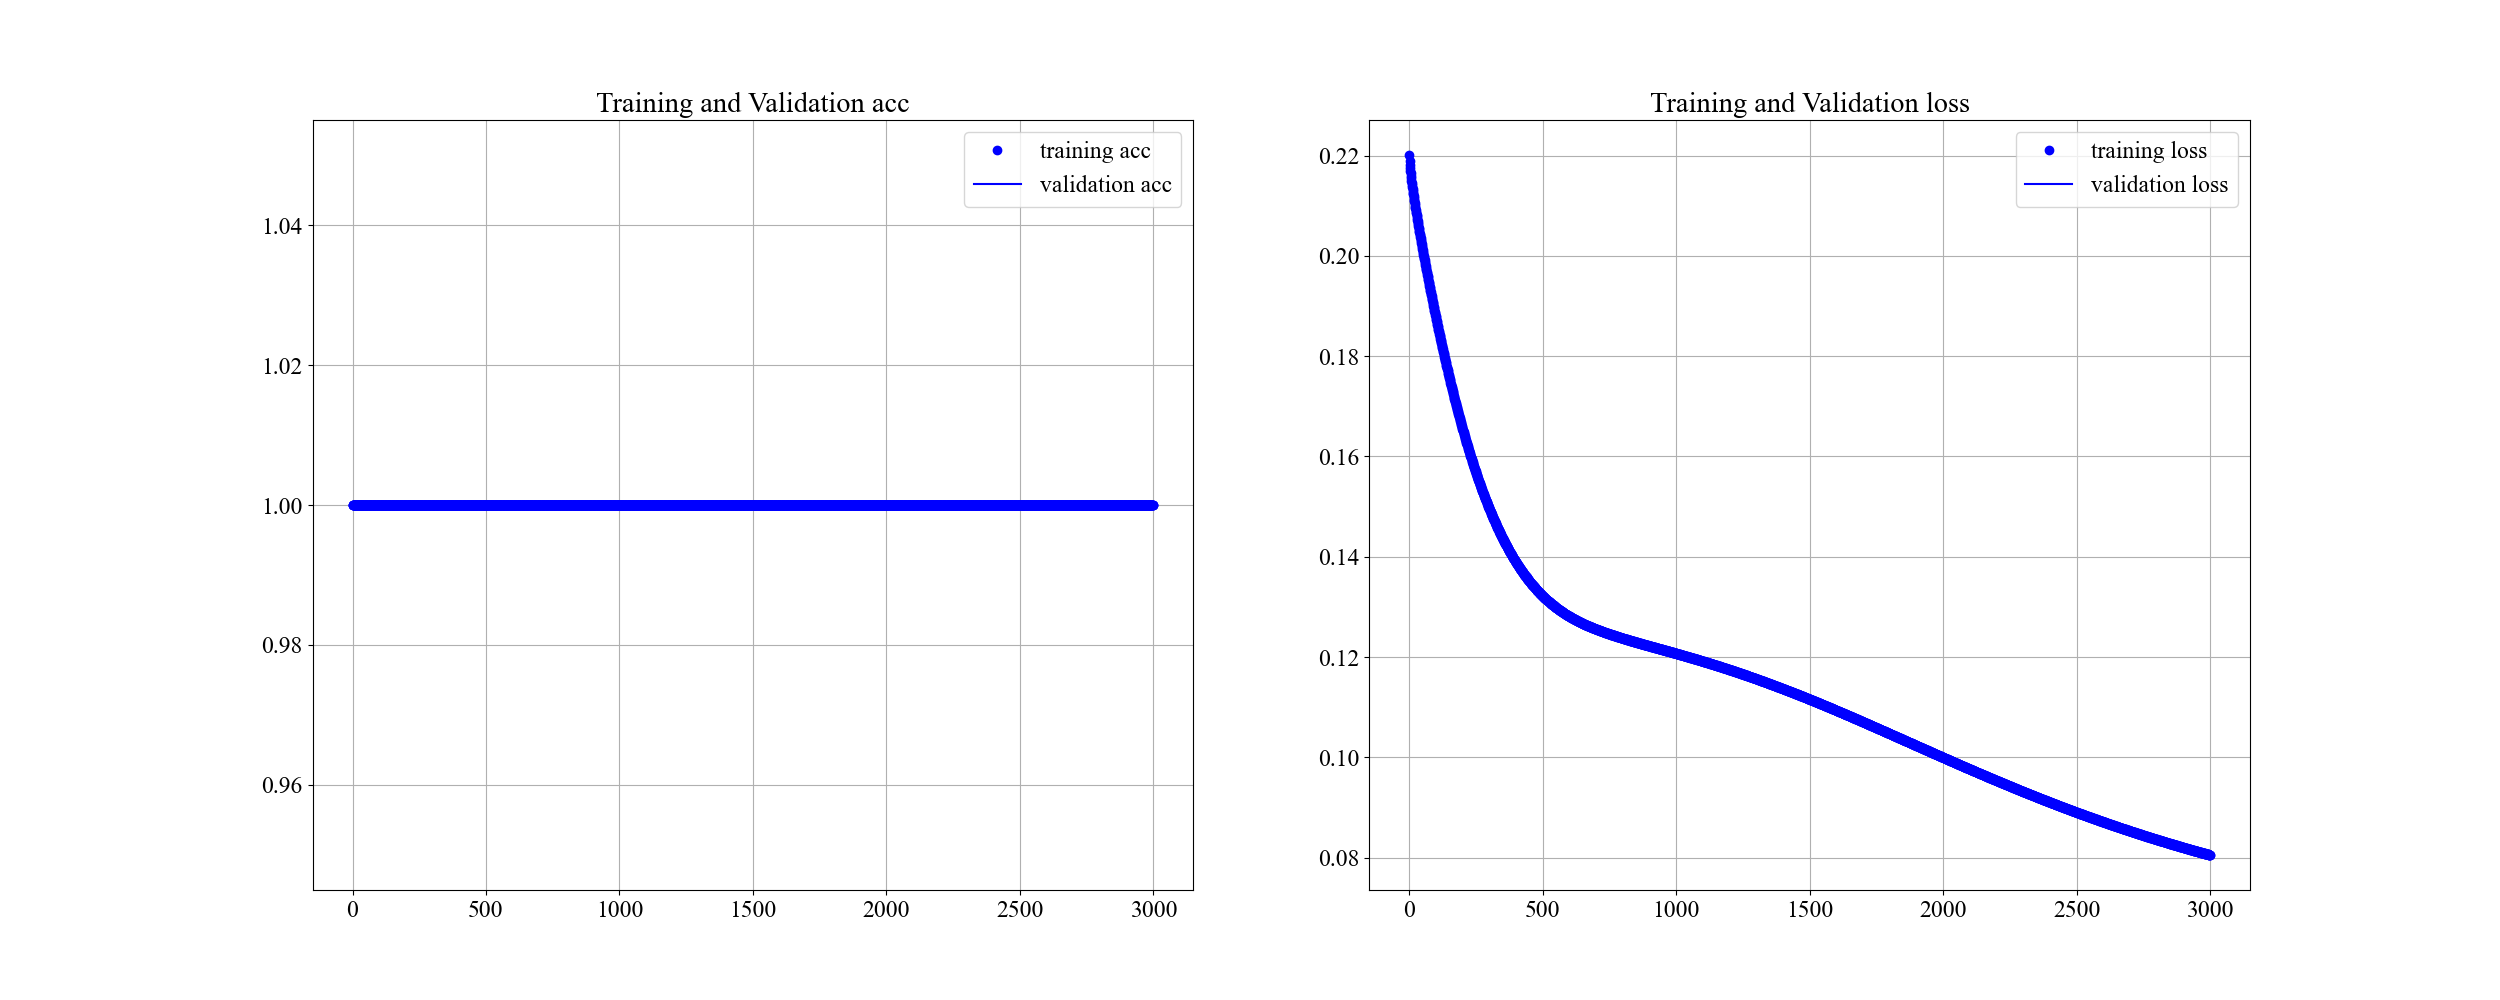
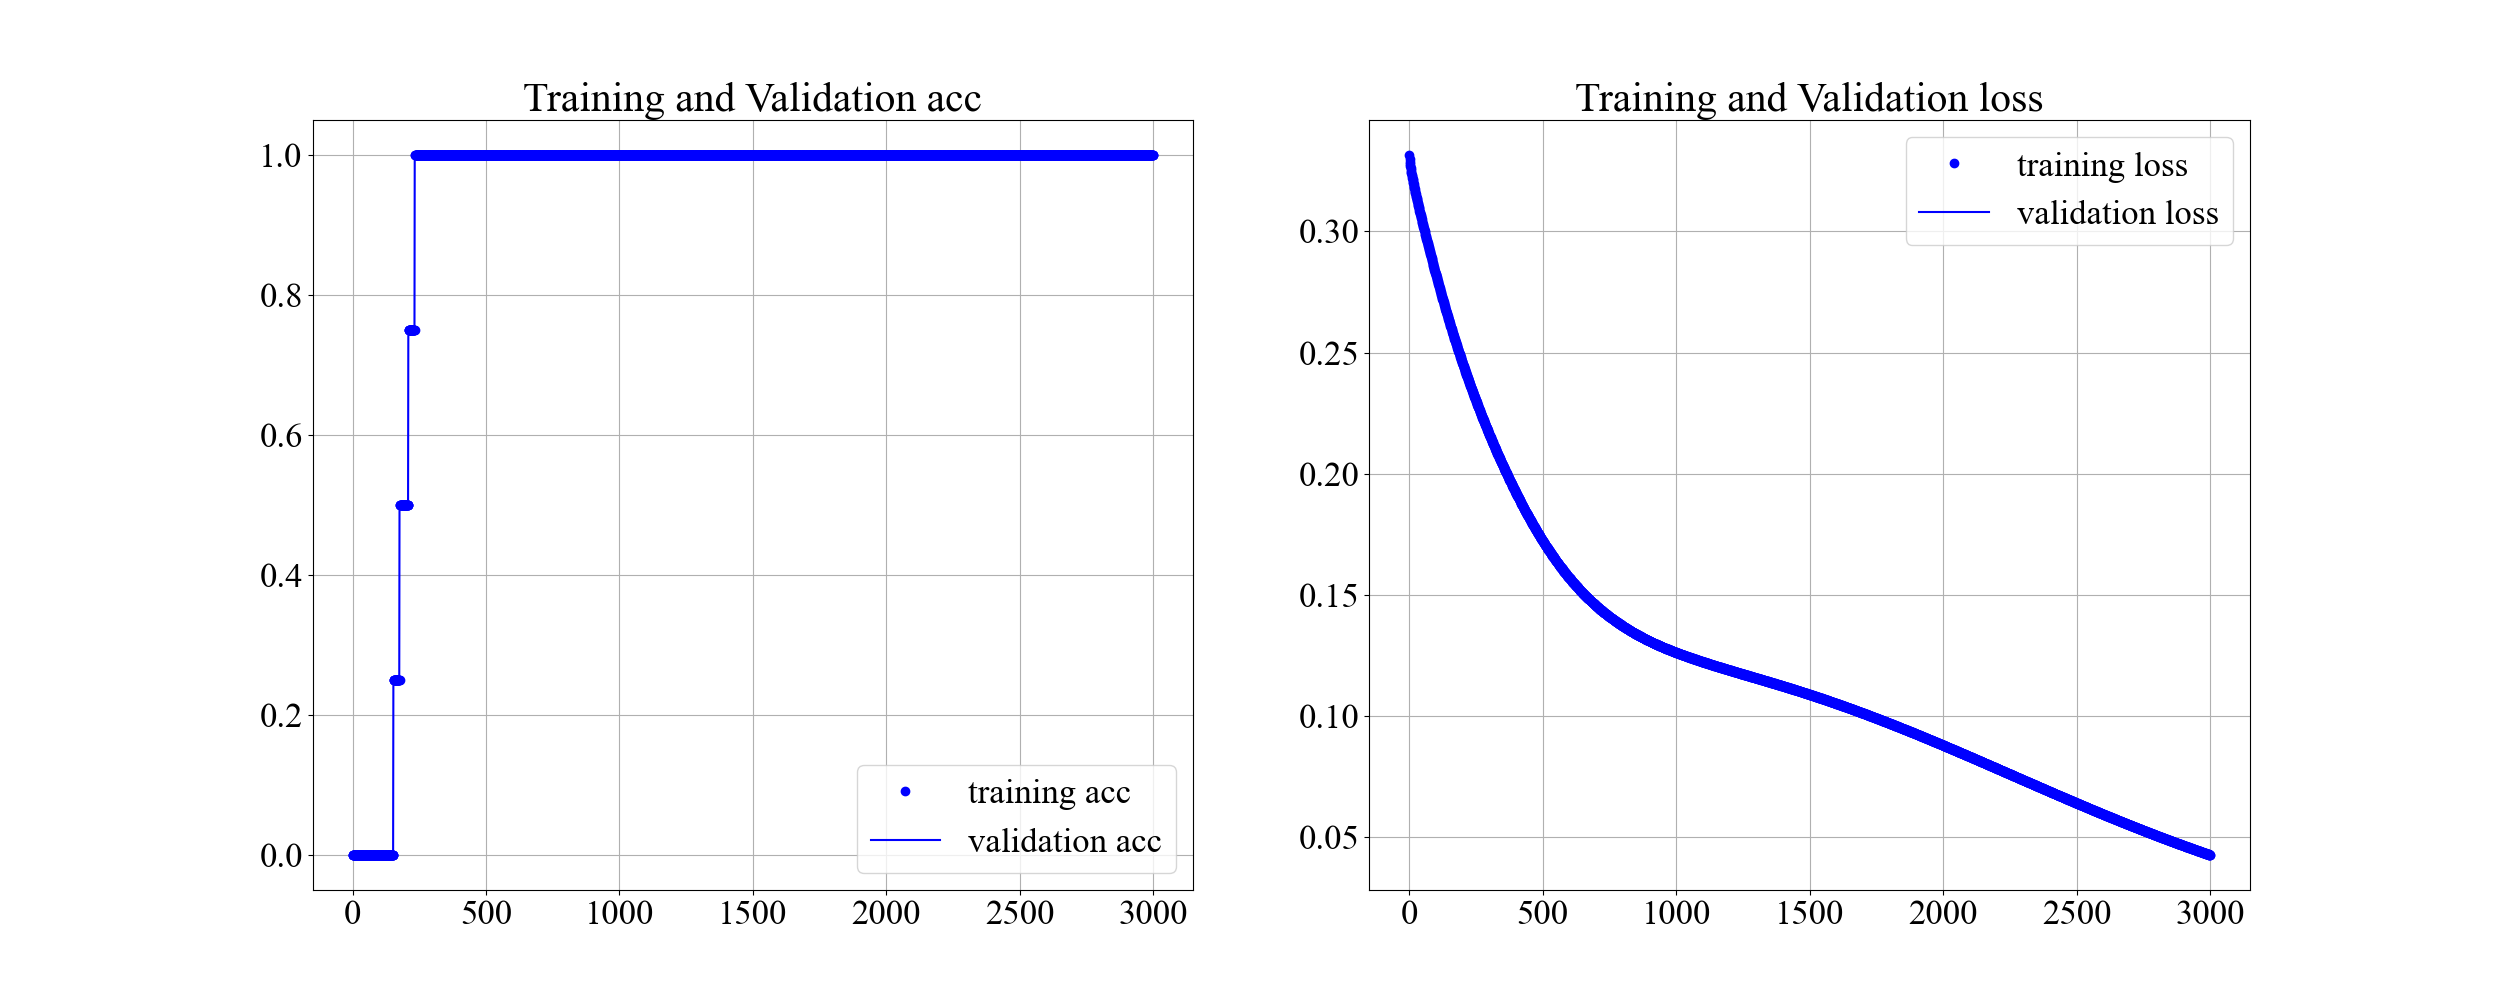
update

diff --git a/python/keras/01_test/ex4.py b/python/keras/01_test/ex4.py
@@ -6,7 +6,7 @@ from keras.optimizers import RMSprop
 import os
 import matplotlib.pyplot as plt
 
-def plot_history(history, save_graph_img_path, fig_size_x, fig_size_y):
+def plot_history(history, save_graph_img_path, fig_size_x, fig_size_y, lim_font_size):
 
 
     acc = history.history['accuracy']
@@ -19,7 +19,7 @@ def plot_history(history, save_graph_img_path, fig_size_x, fig_size_y):
     # グラフ表示
     plt.figure(figsize=(fig_size_x, fig_size_y))
     plt.rcParams['font.family'] = 'Times New Roman'
-    plt.rcParams['font.size'] = 17
+    plt.rcParams['font.size'] = lim_font_size  # 全体のフォント
     plt.subplot(121)
 
     plt.plot(epochs, acc, 'bo' ,label = 'training acc')
@@ -82,7 +82,7 @@ def main():
                         epochs=3000,
                         validation_data=(test_x, test_y)) # 検証用データ
 
-    plot_history(history, SAVE_DATA_DIR_PATH + "graph.png", 25, 10)
+    plot_history(history, SAVE_DATA_DIR_PATH + "graph.png", 25, 10, 25)
 
 if __name__ == '__main__':
     main()
